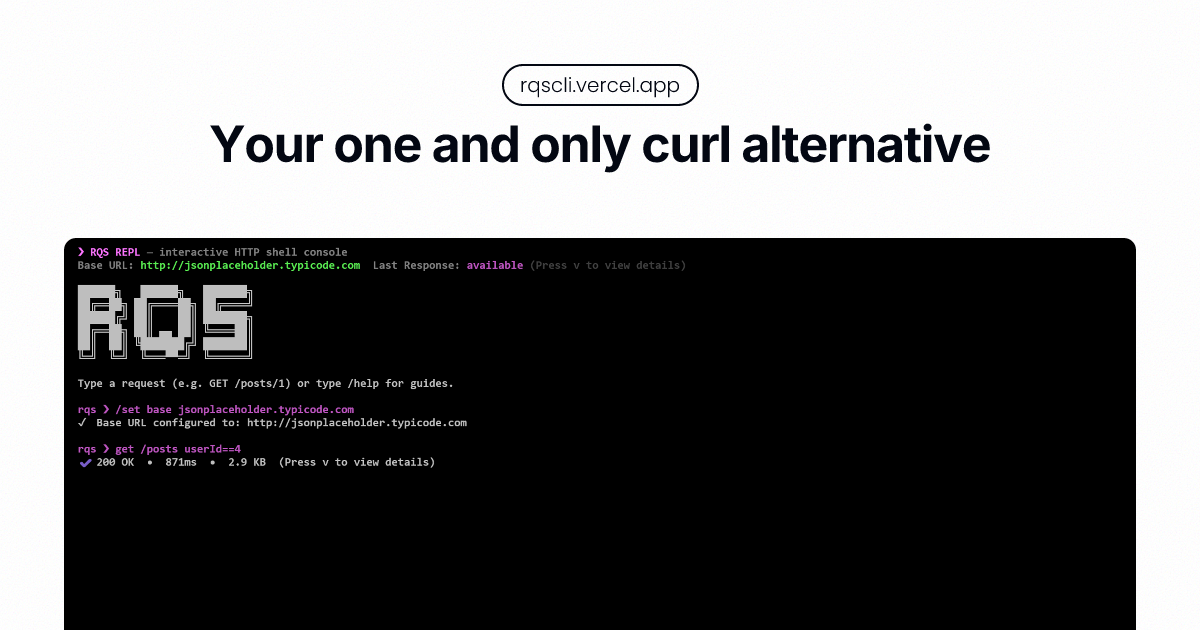
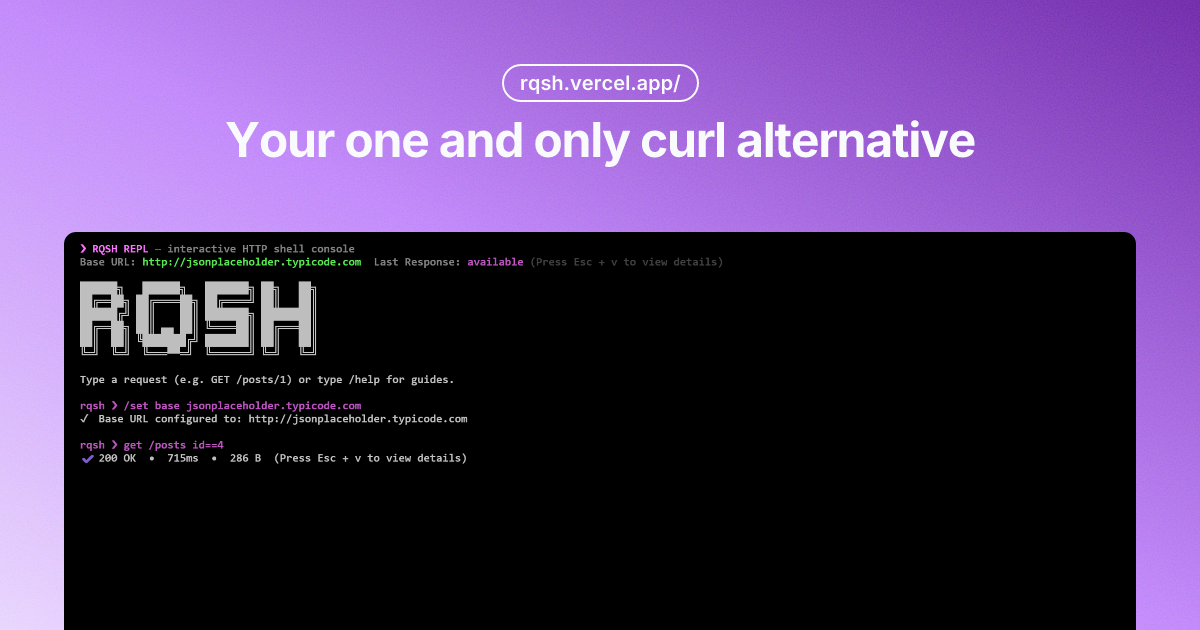
added new og images for rqsh

diff --git a/apps/cli/src/components/ReplConsole.tsx b/apps/cli/src/components/ReplConsole.tsx
@@ -30,7 +30,7 @@ export default function ReplConsole({ state }: ReplConsoleProps) {
         </Text>
         {state.lastResponseBody && (
           <Text color="gray">
-            Last Response: <Text color="magenta">available</Text> <Text dimColor>(Press v to view details)</Text>
+            Last Response: <Text color="magenta">available</Text> <Text dimColor>(Press Esc + v to view details)</Text>
           </Text>
         )}
       </Box>
@@ -120,7 +120,7 @@ export default function ReplConsole({ state }: ReplConsoleProps) {
       {state.panel === "input" && (
         <Box paddingX={2} marginTop={0}>
           <Text dimColor>
-            Press <Text color="magenta">Esc</Text> scroll mode  •  Type <Text color="magenta">/help</Text> commands  •  Press <Text color="magenta">v</Text> inspector
+            Press <Text color="magenta">Esc</Text> scroll mode  •  Type <Text color="magenta">/help</Text> commands  •  Press <Text color="magenta">Esc + v</Text> inspector
           </Text>
         </Box>
       )}

diff --git a/apps/cli/src/hooks/useRqshCli.ts b/apps/cli/src/hooks/useRqshCli.ts
@@ -248,7 +248,7 @@ export function useRqsh() {
         copy.splice(logIndex, 1);
         return [
           ...copy,
-          `✔  ${result.status} ${result.status < 400 ? "OK" : "Error"}  •  ${result.time}ms  •  ${sizeStr}  (Press v to view details)`,
+          `✔  ${result.status} ${result.status < 400 ? "OK" : "Error"}  •  ${result.time}ms  •  ${sizeStr}  (Press Esc + v to view details)`,
           ""
         ];
       });